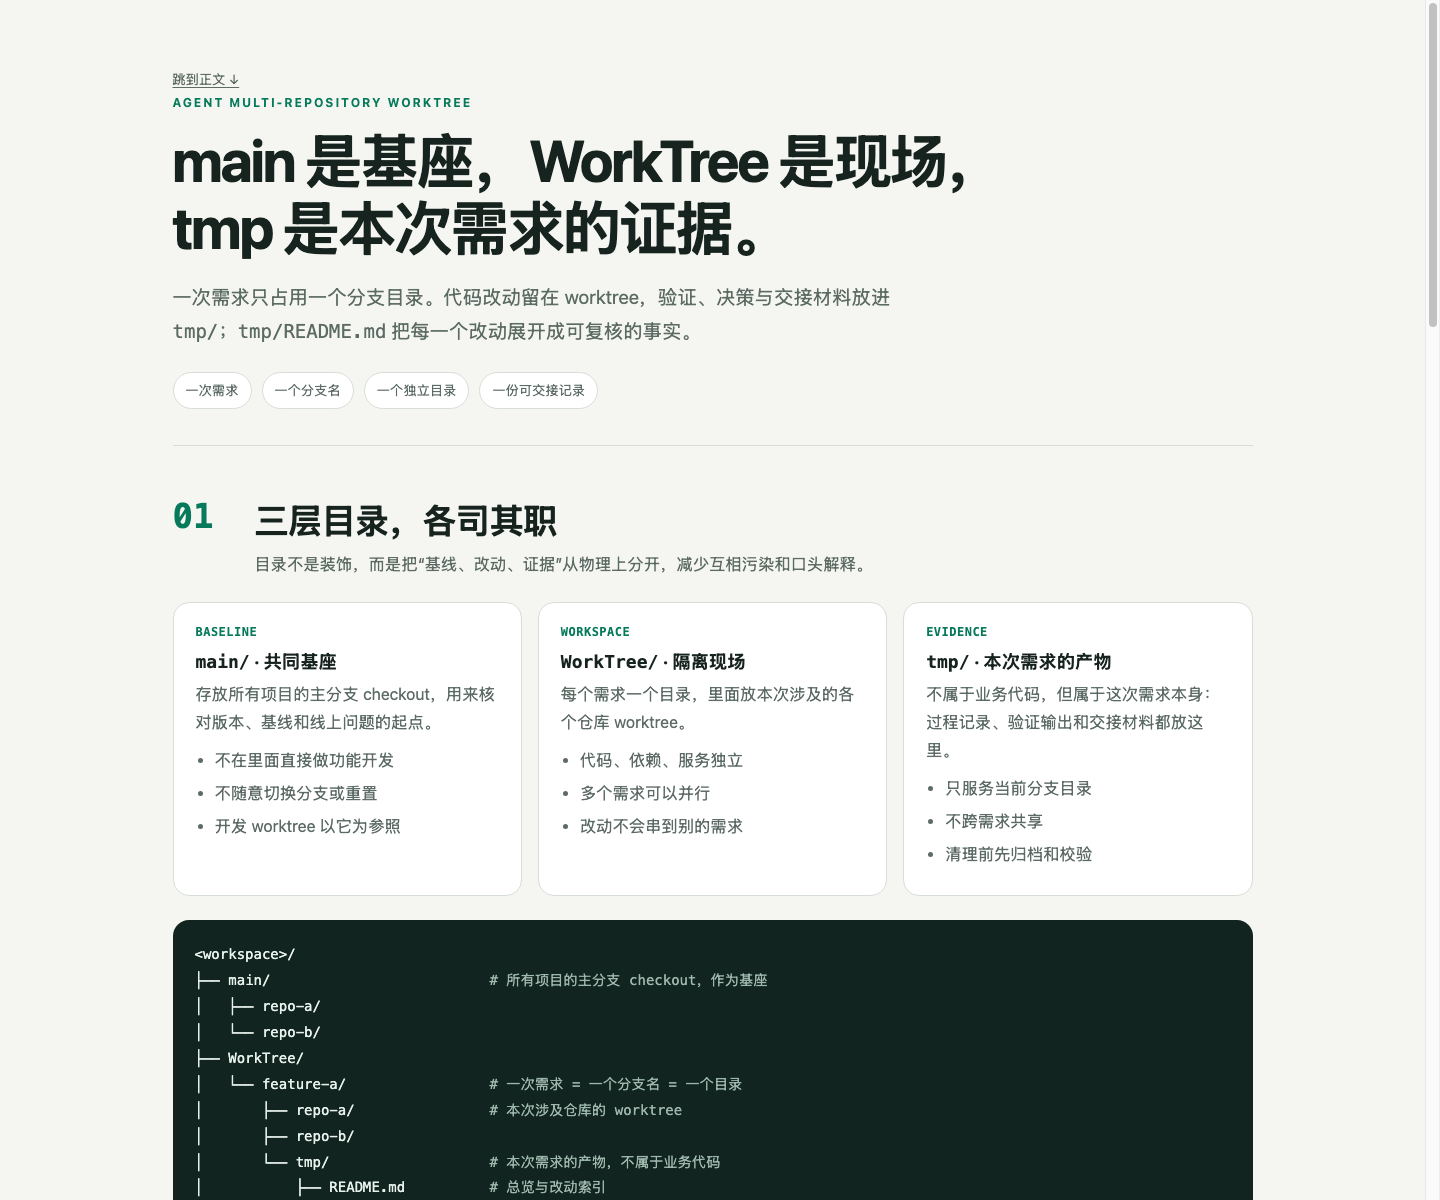
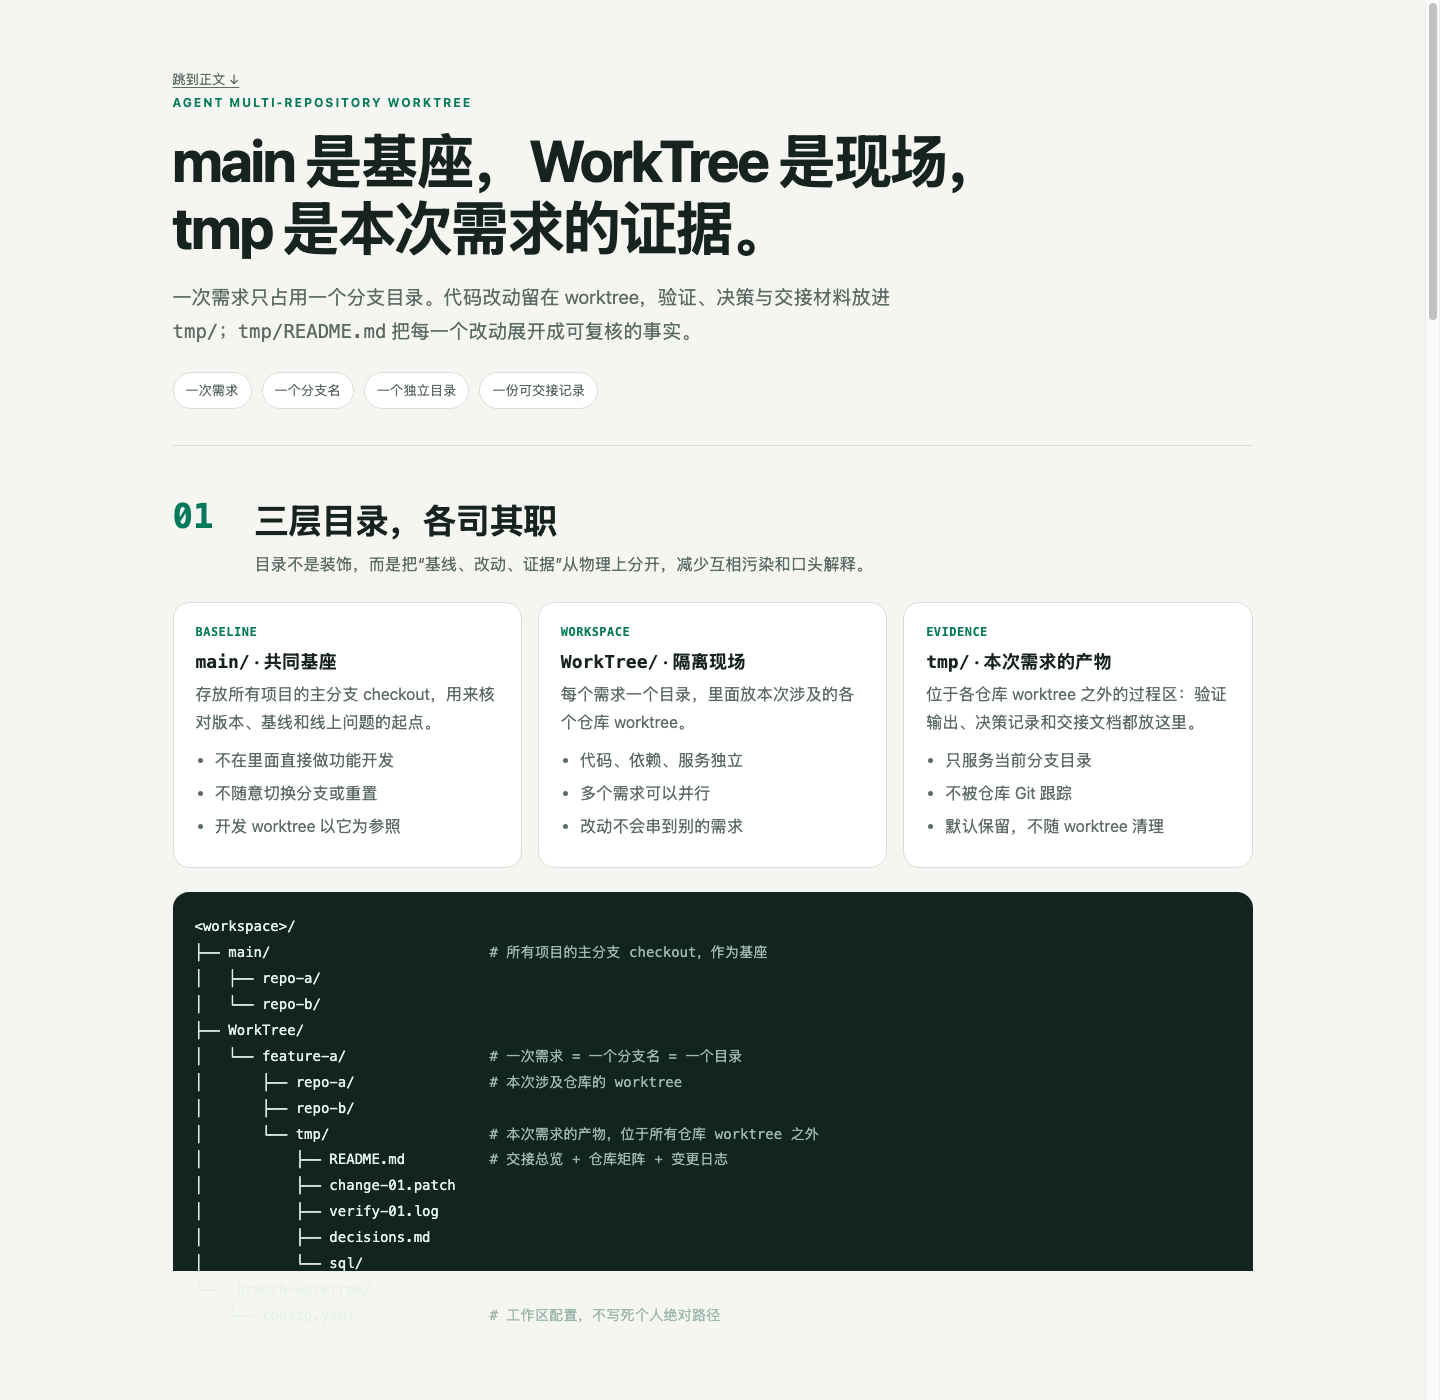
fix: align tmp README page with handoff contract

Changed region(s): [[0.0938, 0.0308, 0.875, 1.0], [0.4688, 0.4008, 0.5938, 0.4317], [0.9688, 0.2158, 1.0, 0.2775]]

diff --git a/docs/visualizations/standard-workflow.html b/docs/visualizations/standard-workflow.html
@@ -93,6 +93,10 @@ strong{color:var(--ink)}
 }
 .note p{margin:0;color:var(--ink)}
 .warning{border-left-color:#b57a20;background:var(--amber-soft)}
+.scroll-hint{display:none;margin:8px 0 0;font-size:13px;color:var(--muted)}
+.status-row{display:flex;flex-wrap:wrap;gap:8px;margin:14px 0 8px}
+.status-row span{display:inline-block;padding:4px 11px;border:1px solid var(--line);border-radius:999px;background:var(--card);font-size:13px;color:var(--ink)}
+.caption{margin:8px 0 0;font-size:13px;color:var(--muted)}
 .artifact-grid{display:grid;grid-template-columns:repeat(2,minmax(0,1fr));gap:10px 24px}
 .artifact{
   display:grid;
@@ -161,6 +165,7 @@ footer p{margin:4px 0;color:var(--muted)}
   .zoom-arrow{transform:rotate(90deg);justify-self:center}
   .artifact{grid-template-columns:1fr;gap:2px}
   .directory-tree,.example{font-size:12px;padding:16px}
+  .scroll-hint{display:block}
   .lead{font-size:17px}
 }
 @media print{
@@ -220,11 +225,11 @@ footer p{margin:4px 0;color:var(--muted)}
     <article class="card">
       <span class="card-tag">EVIDENCE</span>
       <h3><code>tmp/</code> · 本次需求的产物</h3>
-      <p>不属于业务代码，但属于这次需求本身：过程记录、验证输出和交接材料都放这里。</p>
+      <p>位于各仓库 worktree 之外的过程区：验证输出、决策记录和交接文档都放这里。</p>
       <ul>
         <li>只服务当前分支目录</li>
-        <li>不跨需求共享</li>
-        <li>清理前先归档和校验</li>
+        <li>不被仓库 Git 跟踪</li>
+        <li>默认保留，不随 worktree 清理</li>
       </ul>
     </article>
   </div>
@@ -237,17 +242,22 @@ footer p{margin:4px 0;color:var(--muted)}
 │   └── feature-a/                 <span class="comment"># 一次需求 = 一个分支名 = 一个目录</span>
 │       ├── repo-a/                <span class="comment"># 本次涉及仓库的 worktree</span>
 │       ├── repo-b/
-│       └── tmp/                   <span class="comment"># 本次需求的产物，不属于业务代码</span>
-│           ├── README.md          <span class="comment"># 总览与改动索引</span>
+│       └── tmp/                   <span class="comment"># 本次需求的产物，位于所有仓库 worktree 之外</span>
+│           ├── README.md          <span class="comment"># 交接总览 + 仓库矩阵 + 变更日志</span>
 │           ├── change-01.patch
 │           ├── verify-01.log
 │           ├── decisions.md
 │           └── sql/
 └── .branch-worktree/
     └── config.yaml                <span class="comment"># 工作区配置，不写死个人绝对路径</span></code></pre>
+  <p class="scroll-hint">窄屏可左右滑动，查看完整目录树和表格。</p>
+
+  <div class="note">
+    <p><strong>目录名以配置为准。</strong><code>main/</code> 和 <code>WorkTree/</code> 是本文示例；实际名称来自用户首次确认的 <code>mainDir</code> 与 <code>worktreeDir</code>。两者同级，不能互相嵌套。</p>
+  </div>
 
   <div class="note warning">
-    <p><strong>不要把 tmp 当成全机器共用的临时目录。</strong>它属于当前需求的分支目录；另一个需求有自己的 <code>tmp/</code>，两者不要互相复制“看起来差不多”的验证结果。</p>
+    <p><strong>tmp 不是 IDE 或构建临时目录。</strong>它位于 <code>WorkTree/&lt;branch&gt;/tmp</code>，在所有仓库 worktree 之外，因此不被任何仓库 Git 跟踪；也不是仓库内部被 <code>.gitignore</code> 忽略的 <code>tmp/</code>。另一个需求有自己的 <code>tmp/</code>，不要互相复制验证结果。</p>
   </div>
 </section>
 
@@ -261,7 +271,7 @@ footer p{margin:4px 0;color:var(--muted)}
   </div>
 
   <dl class="artifact-grid">
-    <div class="artifact"><dt>README.md</dt><dd>需求目标、仓库矩阵、改动索引、当前状态、阻塞和下一步。</dd></div>
+    <div class="artifact"><dt>README.md</dt><dd>按固定骨架记录阻塞、摘要、仓库矩阵、验证证据、下一步、决策和变更日志。</dd></div>
     <div class="artifact"><dt>*.patch / diff</dt><dd>关键改动的对照，尤其是需要 reviewer 重点看的片段。</dd></div>
     <div class="artifact"><dt>verify-*.log</dt><dd>测试、构建、静态检查的原始输出，标明命令和对应 commit。</dd></div>
     <div class="artifact"><dt>scripts/</dt><dd>复现问题、批量校验或联调用的脚本，注明用途和运行条件。</dd></div>
@@ -276,7 +286,7 @@ footer p{margin:4px 0;color:var(--muted)}
   </div>
 
   <div class="note warning">
-    <p><strong>安全边界：</strong>不把密码、token、私钥、生产凭据写进 <code>tmp/</code>；不跨需求复用验证结果；清理 worktree 前默认保留 <code>tmp/</code>，只有归档并校验通过后才移除原文件。</p>
+    <p><strong>清理默认保留 tmp。</strong>不把密码、token、私钥、生产凭据写进 <code>tmp/</code>，不跨需求复用验证结果。只有用户明确要求归档、并单独确认归档目的地后，才创建归档；归档后必须完成归档校验，逐项核对文件清单、相对路径、大小和内容校验和。校验失败则保留原文件，校验通过后才可移除原始 <code>tmp/</code>。</p>
   </div>
 </section>
 
@@ -284,58 +294,120 @@ footer p{margin:4px 0;color:var(--muted)}
   <div class="section-head">
     <div class="section-no">03</div>
     <div>
-      <h2>README：把每个改动放大</h2>
-      <p>不是流水账，也不是 commit 列表的复读机。每一条改动都要能从“一句话”展开到“可复核的证据”。</p>
+      <h2>README：先交接，再把每个改动放大</h2>
+      <p><code>tmp/README.md</code> 不是一份纯变更日志。它按 <code>templates/branch-readme.md</code> 的固定骨架先说明阻塞、状态、仓库矩阵和验证证据，再用变更日志把每一项改动展开到可复核的细节。</p>
     </div>
   </div>
 
-  <div class="zoom" aria-label="从摘要到证据的三层展开">
-    <div class="zoom-step"><b>一句话摘要</b><span>这次需求最终改变了什么</span></div>
+  <div class="zoom" aria-label="README 的三层阅读路径">
+    <div class="zoom-step"><b>固定骨架</b><span>先看阻塞、状态、目标和共用分支</span></div>
     <div class="zoom-arrow" aria-hidden="true">→</div>
-    <div class="zoom-step"><b>逐仓改动卡片</b><span>哪个仓库、哪个 commit、影响哪些范围</span></div>
+    <div class="zoom-step"><b>矩阵与证据</b><span>逐仓定位基线和当前 commit</span></div>
     <div class="zoom-arrow" aria-hidden="true">→</div>
-    <div class="zoom-step"><b>原始证据链接</b><span>日志、diff、SQL、截图和验证命令</span></div>
+    <div class="zoom-step"><b>变更日志</b><span>展开每个改动的原因、影响和验证</span></div>
   </div>
+
+  <h3>固定骨架：从阻塞项开始</h3>
+  <p>章节顺序固定。矩阵只保存当前状态索引；完整命令输出和决策材料放到 <code>tmp/</code> 的独立附件，并在对应章节链接。</p>
 
   <div class="table-wrap">
     <table>
       <thead>
-        <tr><th>放大项</th><th>要回答的问题</th><th>落在哪里</th></tr>
+        <tr><th>顺序</th><th>固定章节</th><th>必须写清</th></tr>
       </thead>
       <tbody>
-        <tr><td><strong>改了什么</strong></td><td>用一句话说明行为变化，不写空泛的“优化代码”</td><td>README 改动索引</td></tr>
-        <tr><td><strong>为什么改</strong></td><td>对应的 bug、需求、约束或事故结论</td><td>改动条目 + decisions.md</td></tr>
-        <tr><td><strong>影响范围</strong></td><td>涉及仓库、接口、用户路径、数据或部署单元</td><td>仓库矩阵</td></tr>
-        <tr><td><strong>改动前 / 改动后</strong></td><td>关键代码或行为对比，必要时链接 patch</td><td>patch / diff 文件</td></tr>
-        <tr><td><strong>验证</strong></td><td>跑了什么命令、在哪个目录、结果如何</td><td>verify-*.log</td></tr>
-        <tr><td><strong>commit</strong></td><td>完整 SHA，和这条改动一一对应</td><td>README 改动条目</td></tr>
-        <tr><td><strong>阻塞 / 下一步</strong></td><td>还缺什么、谁处理、什么条件下继续</td><td>README 顶部状态区</td></tr>
+        <tr><td>1</td><td><strong>阻塞项</strong></td><td>受影响仓库、缺失条件、负责人、解除条件；没有阻塞时明确写“无”。</td></tr>
+        <tr><td>2</td><td><strong>当前摘要</strong></td><td>状态、当前阶段和当前事实；状态只能从五种值中选择。</td></tr>
+        <tr><td>3</td><td><strong>目标 · 共用分支</strong></td><td>本次范围和统一的 <code>branch-name</code>。</td></tr>
+        <tr><td>4</td><td><strong>仓库矩阵</strong></td><td>仓库、路径、基线、基线 commit（完整 SHA）、当前 commit（完整 SHA）、状态、当前阶段和验证证据链接。</td></tr>
+        <tr><td>5</td><td><strong>验证证据</strong></td><td>仓库、对应 commit、命令、执行目录、结果和原始输出链接。</td></tr>
+        <tr><td>6</td><td><strong>下一步</strong></td><td>动作、执行者、等待条件；等待用户输入时写出具体问题。</td></tr>
+        <tr><td>7</td><td><strong>关键决策</strong></td><td>日期、结论、备选方案和依据，可链接到附件。</td></tr>
+        <tr><td>8</td><td><strong>变更日志</strong></td><td>日期、变更内容、commit 或证据链接；详细展开见下一节。</td></tr>
       </tbody>
     </table>
   </div>
 
-  <pre class="example" aria-label="README 改动条目示例"><code><span class="mark">### 2026-11-02 · repo-a · fix: retry failed upload</span>
+  <div class="status-row" aria-label="唯一允许的五种状态">
+    <span>未开始</span><span>进行中</span><span>阻塞</span><span>完成</span><span>不适用</span>
+  </div>
+  <p class="caption">状态只能使用以上五种。<strong>当前阶段</strong>描述正在做的工作，不是额外状态；标为“完成”必须附证据，标为“阻塞”必须填写缺失条件和负责人。矩阵中每个“验证证据”单元格都必须填写相对 <code>tmp/README.md</code> 的实际链接；证据缺失时链接到写明缺失命令、负责人和所需结果的待补记录，不能留空或编造结果。</p>
+
+  <h3>变更日志：每个改动如何放大</h3>
+  <p>日志里每一条改动都要能从一句话继续展开，回答下面七项。完整 SHA 写在条目中，验证必须包含命令、执行目录和原始输出。</p>
+
+  <div class="table-wrap">
+    <table>
+      <thead>
+        <tr><th>放大项</th><th>要回答的问题</th><th>写在哪里</th></tr>
+      </thead>
+      <tbody>
+        <tr><td><strong>改了什么</strong></td><td>具体行为发生了什么变化，不写空泛的“优化代码”</td><td>变更日志条目</td></tr>
+        <tr><td><strong>为什么改</strong></td><td>对应的 bug、需求、约束或事故结论</td><td>变更日志 + 关键决策</td></tr>
+        <tr><td><strong>影响范围</strong></td><td>涉及仓库、接口、用户路径、数据或部署单元</td><td>变更日志 + 仓库矩阵</td></tr>
+        <tr><td><strong>改动前 / 改动后</strong></td><td>关键行为或代码对比，必要时链接 patch</td><td>变更日志 + tmp 附件</td></tr>
+        <tr><td><strong>验证</strong></td><td>命令、执行目录、结果和原始输出，全部对应同一个 commit</td><td>验证证据表 + 变更日志</td></tr>
+        <tr><td><strong>commit</strong></td><td>用完整 SHA 关联改动、矩阵和证据</td><td>仓库矩阵 + 变更日志</td></tr>
+        <tr><td><strong>风险 / 回滚</strong></td><td>最坏影响是什么，如何回滚，是否有未验证部分</td><td>变更日志条目</td></tr>
+      </tbody>
+    </table>
+  </div>
+
+  <pre class="example" aria-label="tmp README 固定结构示例"><code><span class="mark"># 阻塞项</span>
+| 仓库 | 缺失条件 | 负责人 | 解除条件 |
+|---|---|---|---|
+| repo-b | 测试环境未恢复 | 平台值班 | 环境可访问并跑通集成测试 |
+
+<span class="mark"># 当前摘要</span>
+- 状态：阻塞
+- 当前阶段：等待 repo-b 集成验证
+- 摘要：repo-a 已完成并验证；repo-b 阻塞，原因见阻塞项。
+
+<span class="mark"># 目标</span>
+补齐上传失败重试与提示，减少网络抖动导致的误失败。
+
+<span class="mark"># 共用分支</span>
+feature-upload-retry
+
+<span class="mark"># 仓库矩阵</span>
+| 仓库 | 路径 | 基线 | 基线 commit（完整 SHA） | 当前 commit（完整 SHA） | 状态 | 当前阶段 | 验证证据 |
+|---|---|---|---|---|---|---|---|
+| repo-a | .../feature-upload-retry/repo-a | origin/main | 4c1d2e3f4a5b6c7d8e9f0a1b2c3d4e5f60718293 | 9f3c2a1d7b6e4f8091a2c3d4e5f60718293a4b5c | 完成 | 已验证 | [verify-01.log](verify-01.log) |
+| repo-b | .../feature-upload-retry/repo-b | origin/main | 7a2b3c4d5e6f708192a3b4c5d6e7f8091a2b3c4d | 1b2c3d4e5f60718293a4b5c6d7e8f90123456789 | 阻塞 | 等待环境 | [pending-evidence.md](pending-evidence.md) |
+
+<span class="mark"># 验证证据</span>
+| 仓库 | 对应 commit | 命令 | 执行目录 | 结果 | 原始输出 |
+|---|---|---|---|---|---|
+| repo-a | 9f3c2a1d7b6e4f8091a2c3d4e5f60718293a4b5c | go test ./upload/... | .../feature-upload-retry/repo-a | 18 passed | [verify-01.log](verify-01.log) |
+
+<span class="mark"># 下一步</span>
+| 动作 | 执行者 | 等待条件 |
+|---|---|---|
+| 运行 repo-b 集成测试 | 平台值班 | 测试环境恢复 |
+
+<span class="mark"># 关键决策</span>
+- 2026-11-02：只重试可重试错误，避免重复写入；备选“全部重试”因副作用被排除。
+
+<span class="mark"># 变更日志</span>
+- 2026-11-02：上传失败增加有限重试；commit / 证据：`9f3c2a1...` / [详情](verify-01.log)
+- 2026-11-02：最终失败展示可操作提示；commit / 证据：`1b2c3d4...` / [详情](verify-02.log)</code></pre>
+
+  <pre class="example" aria-label="单个改动展开示例"><code><span class="mark">### 2026-11-02 · repo-a · fix: retry failed upload</span>
 
 <span class="field">改了什么</span>  上传失败后最多重试 2 次，避免一次性网络抖动直接失败
 <span class="field">为什么改</span>  事故 #4812：上传超时被误判为业务失败，用户看到空结果
 <span class="field">影响范围</span>  文件上传接口；不改变请求参数和返回结构
 <span class="field">改动前</span>  首次失败立即抛出异常
 <span class="field">改动后</span>  仅对可重试错误重试，最终失败仍返回原错误
-<span class="field">验证</span>  go test ./upload/... → 18 passed
-        <span class="mark">[原始输出](verify-01.log)</span>
+<span class="field">验证</span>  命令：go test ./upload/...
+        执行目录：.../feature-upload-retry/repo-a
+        结果：18 passed
+        原始输出：[verify-01.log](verify-01.log)
 <span class="field">commit</span>  9f3c2a1d7b6e4f8091a2c3d4e5f60718293a4b5c
-<span class="field">风险 / 回滚</span>  重试会延长最坏耗时 2 秒；回滚该 commit 即恢复旧行为
-
-<span class="mark">### 2026-11-02 · repo-b · feat: show upload warning</span>
-
-<span class="field">改了什么</span>  上传最终失败时展示可操作的错误提示
-<span class="field">为什么改</span>  与 repo-a 的上传错误语义对齐
-<span class="field">验证</span>  pnpm test upload → 32 passed
-        <span class="mark">[原始输出](verify-02.log)</span>
-<span class="field">commit</span>  1b2c3d4e5f60718293a4b5c6d7e8f90123456789</code></pre>
+<span class="field">风险 / 回滚</span>  最坏耗时增加 2 秒；回滚该 commit 即恢复旧行为</code></pre>
 
   <div class="note">
-    <p><strong>“放大”不是把内容写长，而是把证据链补全。</strong>摘要让人 30 秒知道结论，条目让人 5 分钟核对一个仓库，链接让人随时回到原始输出。无法验证的部分要明确写成“未验证”，不能补写成成功。</p>
+    <p><strong>“放大”不是把内容写长，而是让每条结论都能回到原始证据。</strong>矩阵提供索引，变更日志展开原因、影响和验证，附件保存原始输出。无法验证的部分明确写“未验证”，不得改写成成功。</p>
   </div>
 </section>
 

diff --git a/docs/index.html b/docs/index.html
@@ -6,26 +6,23 @@
 <meta http-equiv="refresh" content="0; url=visualizations/standard-workflow.html">
 <title>正在进入 · 多仓 Worktree 标准开发流程</title>
 <style>
-:root{color-scheme:dark;--bg:#08111f;--ink:#edf4ff;--muted:#a6bad3;--cyan:#6ee7db}
+:root{color-scheme:light;--paper:#f5f6f2;--card:#fff;--ink:#17231f;--muted:#5d6b65;--line:#d7ded8;--accent:#087a5c;--soft:#e9f4ef}
 *{box-sizing:border-box}
-body{margin:0;min-height:100vh;display:grid;place-items:center;background:radial-gradient(ellipse at 80% 0,#15354c66,transparent 60%),var(--bg);color:var(--ink);font:16px/1.75 -apple-system,BlinkMacSystemFont,"Segoe UI","PingFang SC","Microsoft YaHei",sans-serif}
-main{width:min(620px,86vw);padding:44px;border:1px solid #29415e;border-radius:24px;background:#101e31;box-shadow:0 24px 80px #0004}
-.eyebrow{font-size:12px;letter-spacing:.2em;color:var(--cyan);text-transform:uppercase;margin:0 0 16px}
-h1{font-size:clamp(28px,5vw,44px);line-height:1.2;letter-spacing:-.03em;margin:0 0 12px}
+body{margin:0;min-height:100vh;display:grid;place-items:center;background:var(--paper);color:var(--ink);font:16px/1.75 -apple-system,BlinkMacSystemFont,"Segoe UI","PingFang SC","Microsoft YaHei",sans-serif}
+main{width:min(620px,calc(100% - 32px));padding:40px;border:1px solid var(--line);border-radius:20px;background:var(--card);box-shadow:0 18px 50px #17231f0d}
+.eyebrow{font-size:12px;letter-spacing:.16em;color:var(--accent);font-weight:700;text-transform:uppercase;margin:0 0 14px}
+h1{font-size:clamp(28px,5vw,42px);line-height:1.2;letter-spacing:-.03em;margin:0 0 12px}
 p{color:var(--muted);margin:10px 0}
-a{color:var(--cyan);text-underline-offset:3px}
-.track{height:4px;margin-top:24px;border-radius:99px;background:#24364b;overflow:hidden}
-.track span{display:block;width:42%;height:100%;border-radius:99px;background:linear-gradient(90deg,var(--cyan),#86b9ff);animation:progress 1.1s ease-in-out infinite}
-@keyframes progress{0%{transform:translateX(-110%)}100%{transform:translateX(300%)}}
-@media(prefers-reduced-motion:reduce){.track span{animation:none;width:100%}}
+a{color:var(--accent);text-underline-offset:3px}
+.hint{margin-top:22px;padding:12px 14px;border-radius:10px;background:var(--soft);font-size:14px;color:var(--ink)}
 </style>
 </head>
 <body>
 <main>
-<p class="eyebrow">AGENT MULTI-REPO WORKTREE DEVELOPMENT</p>
+<p class="eyebrow">Agent Multi-Repository Worktree</p>
 <h1>正在进入标准开发流程</h1>
-<p>如果没有自动跳转，请<a href="visualizations/standard-workflow.html">打开流程可视化页面</a>。</p>
-<div class="track" aria-hidden="true"><span></span></div>
+<p>访问根地址会自动跳转到目录、tmp 与 README 说明。</p>
+<p class="hint">如果没有自动跳转，请<a href="visualizations/standard-workflow.html">打开流程说明页面</a>。</p>
 </main>
 </body>
 </html>

diff --git a/tests/test_workflow_visualization.py b/tests/test_workflow_visualization.py
@@ -43,12 +43,23 @@ class WorkflowVisualizationTests(unittest.TestCase):
         ]:
             self.assertIn(phrase, text)
 
-    def test_readme_contract_has_traceable_change_fields(self):
+    def test_readme_contract_matches_handoff_template(self):
         text, _ = self.read_page()
-        for field in ["改了什么", "为什么改", "影响范围", "改动前", "改动后", "验证", "commit"]:
+        for heading in ["# 阻塞项", "# 当前摘要", "# 目标", "# 共用分支", "# 仓库矩阵",
+                        "# 验证证据", "# 下一步", "# 关键决策", "# 变更日志"]:
+            self.assertIn(heading, text)
+        for field in ["基线 commit（完整 SHA）", "当前 commit（完整 SHA）", "执行目录",
+                      "未开始", "进行中", "阻塞", "完成", "不适用"]:
             self.assertIn(field, text)
-        self.assertIn("阻塞", text)
-        self.assertIn("下一步", text)
+        for field in ["改了什么", "为什么改", "影响范围", "改动前", "改动后", "风险 / 回滚"]:
+            self.assertIn(field, text)
+
+    def test_tmp_boundary_and_cleanup_gate_are_explicit(self):
+        text, _ = self.read_page()
+        for phrase in ["各仓库 worktree 之外", "不被任何仓库 Git 跟踪",
+                       "不是 IDE 或构建临时目录", "默认保留",
+                       "单独确认归档目的地", "归档校验"]:
+            self.assertIn(phrase, text)
 
     def test_page_is_clean_offline_and_without_motion_overlays(self):
         text, parser = self.read_page()
@@ -64,6 +75,11 @@ class WorkflowVisualizationTests(unittest.TestCase):
         self.assertIn('content="0; url=visualizations/standard-workflow.html"', index)
         self.assertIn('href="visualizations/standard-workflow.html"', index)
         self.assertTrue((INDEX.parent / "visualizations/standard-workflow.html").is_file())
+        parser = PageParser()
+        parser.feed(index)
+        self.assertEqual(parser.animate_count, 0)
+        self.assertNotIn("animation", index.lower())
+        self.assertNotIn("@keyframes", index.lower())
 
 
 if __name__ == "__main__":
